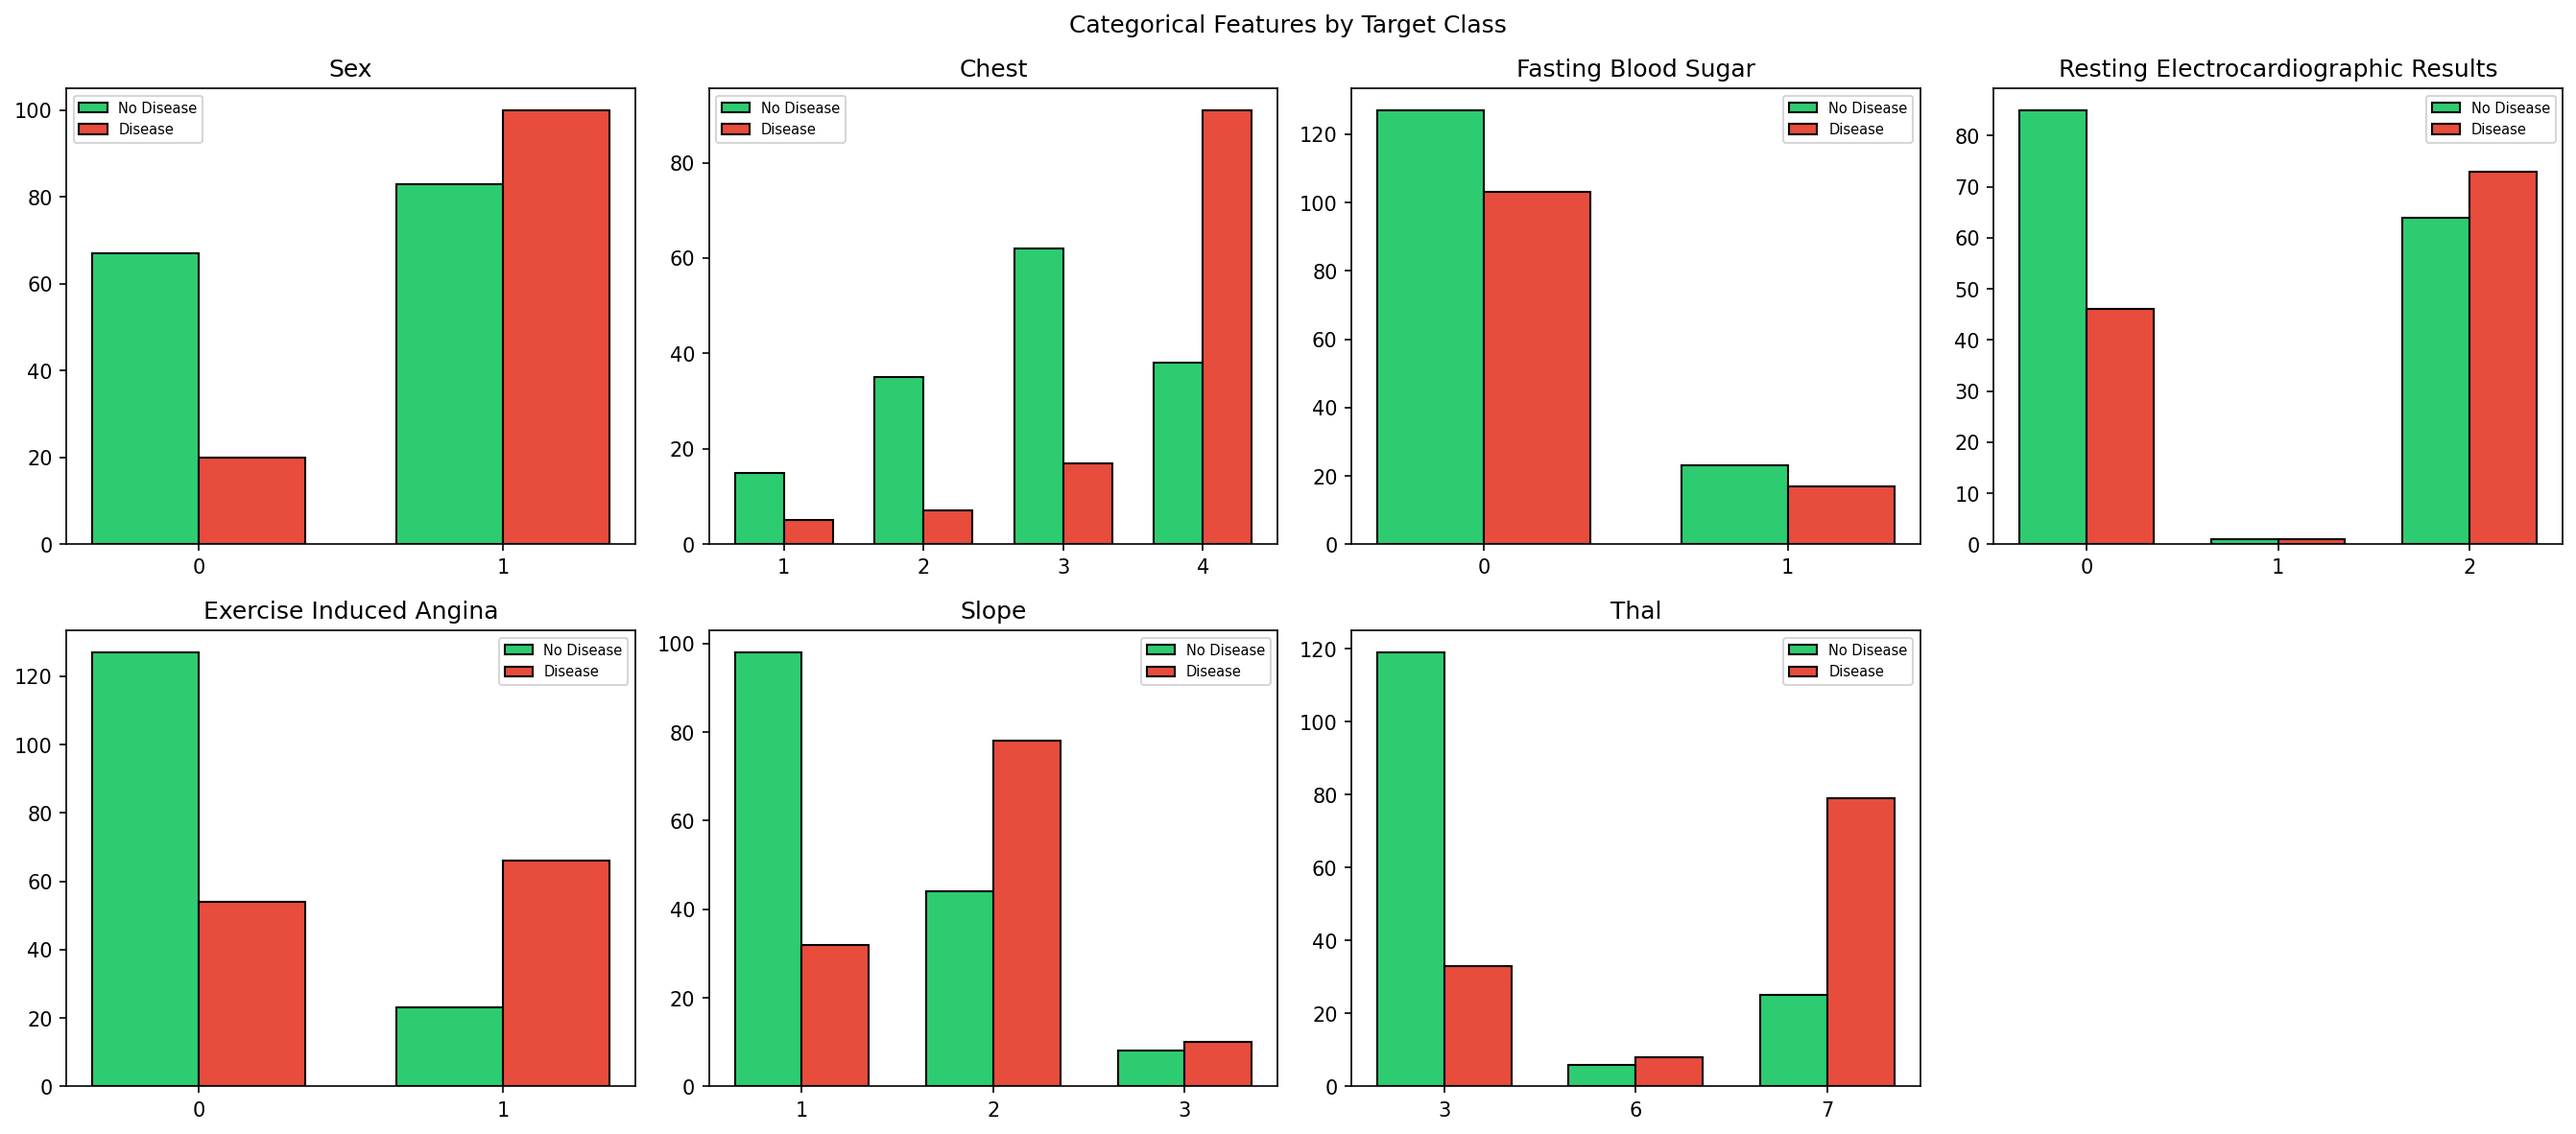
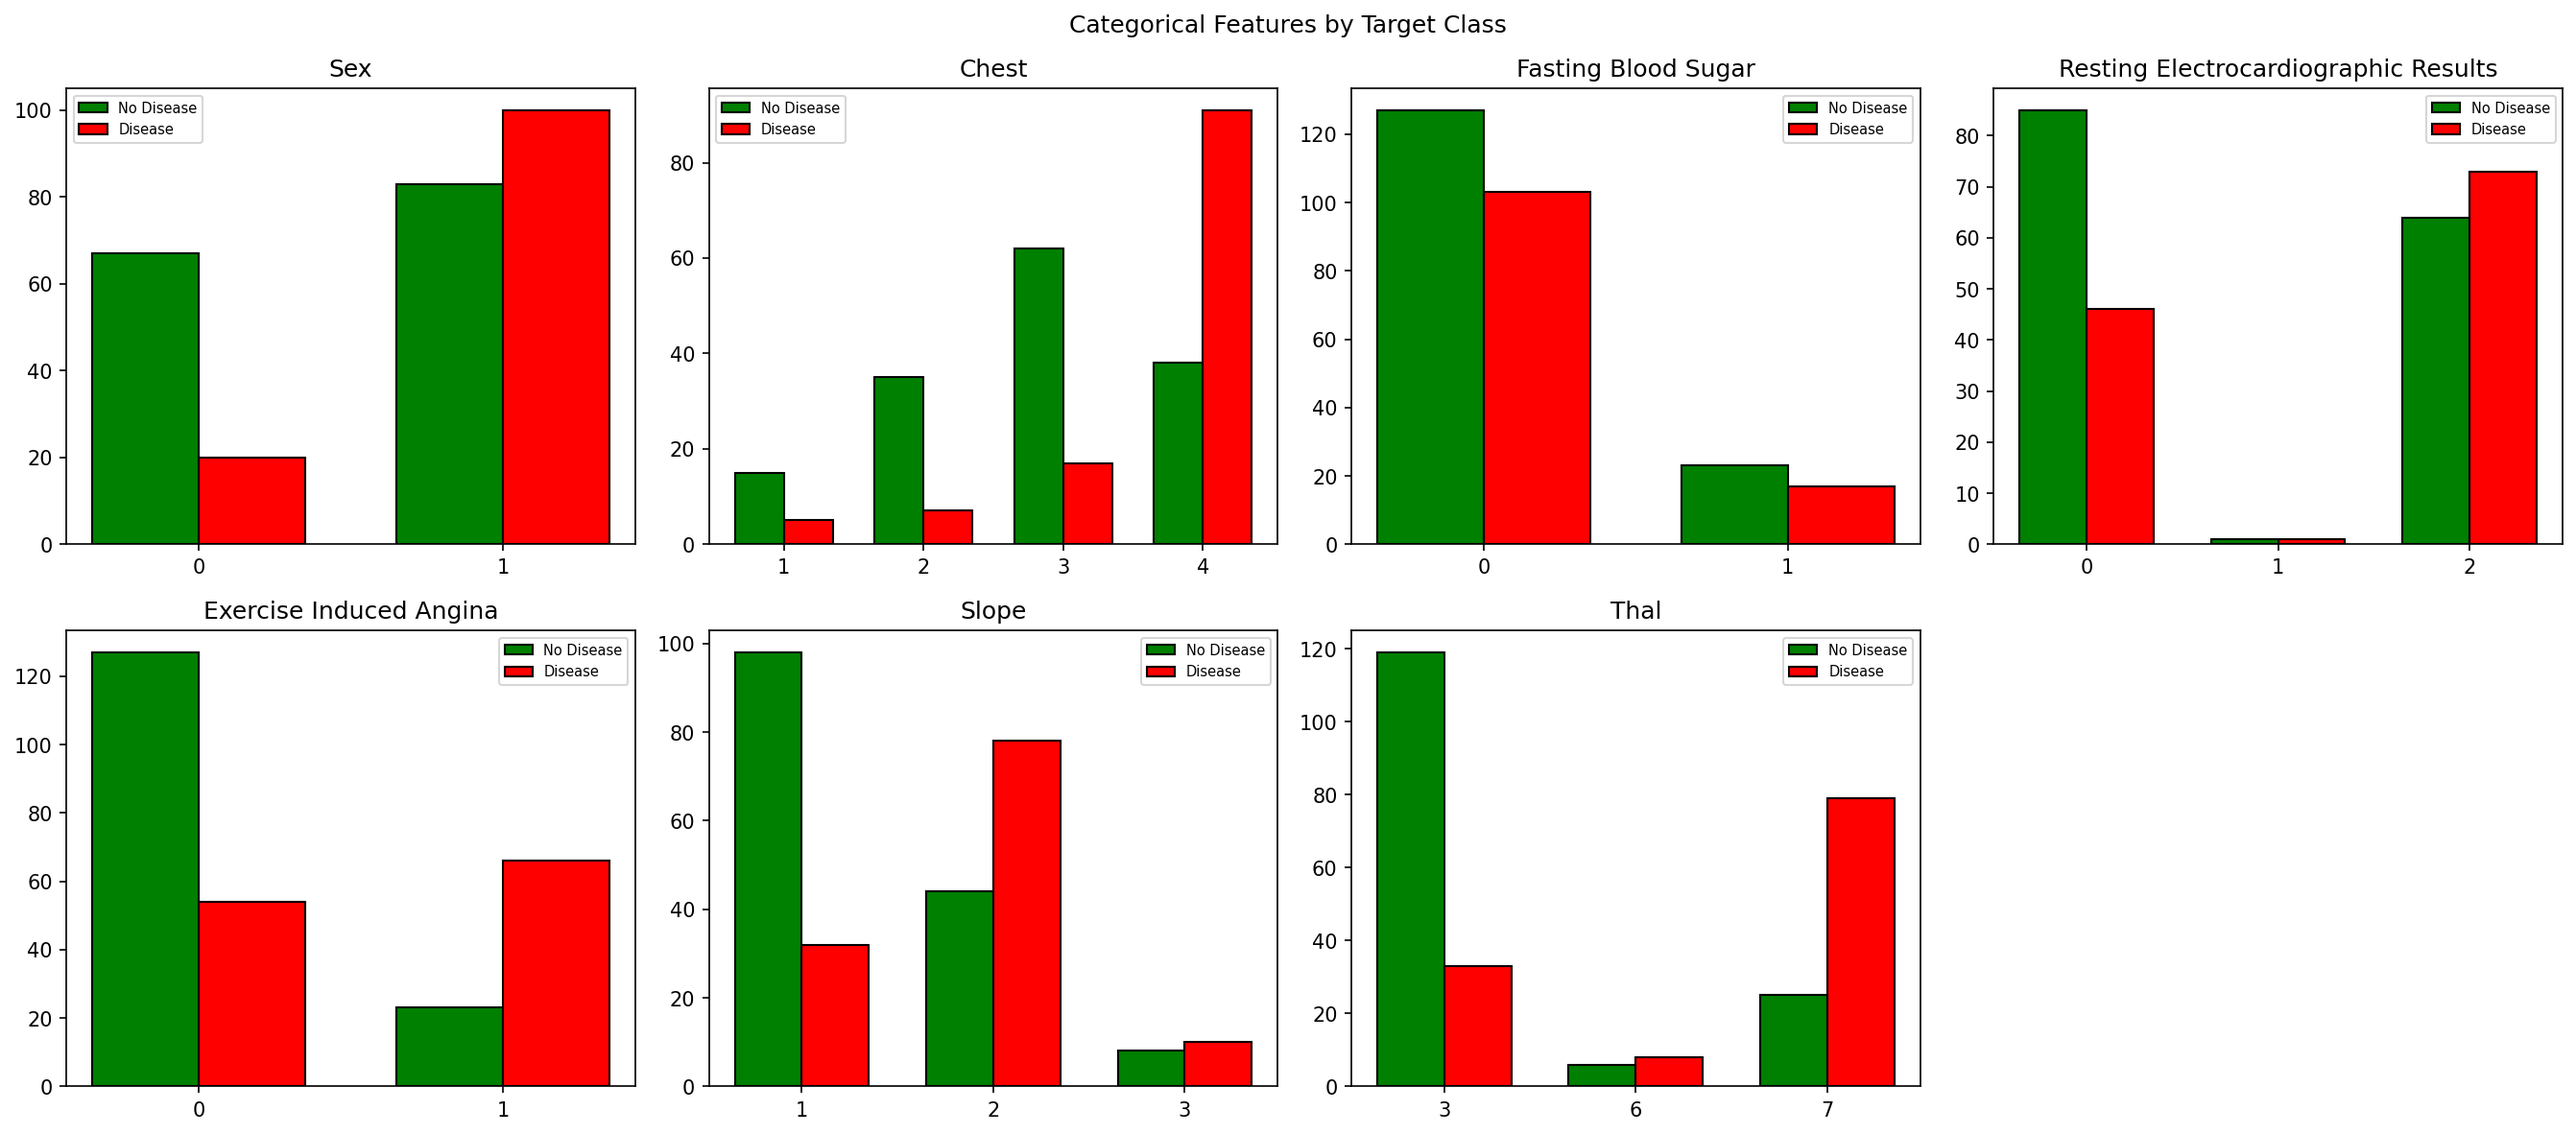
Complete

diff --git a/main.py b/main.py
@@ -130,25 +130,17 @@ categorical_cols = ["sex", "chest", "fasting_blood_sugar",
 
 # Feature Variables
 
-# Plot info
-feat_NoDisease_color = "green"
-feat_Disease_color = "red"
-feat_edge_color = "black"
-feat_alpha = 0.5
-feat_bins = 20
-feat_labels = ["No Disease", "Disease"]
-
 # Bar plots
 fig, axes = plt.subplots(2, 3, figsize=(15, 8))
 axes = axes.flatten()
 for i, col in enumerate(numerical_cols):
-    axes[i].hist(df[df["target"] == 0][col], bins=feat_bins, alpha=feat_alpha,
-                 color=feat_NoDisease_color, label=feat_labels[0], edgecolor=feat_edge_color)
-    axes[i].hist(df[df["target"] == 1][col], bins=feat_bins, alpha=feat_alpha,
-                 color=feat_Disease_color, label=feat_labels[1], edgecolor=feat_edge_color)
-    # KDE lines - NOTE: Used LLM for this. Good to know for future!
+    axes[i].hist(df[df["target"] == 0][col], bins=20, alpha=0.5,
+                 color="green", label="No Disease", edgecolor="black")
+    axes[i].hist(df[df["target"] == 1][col], bins=20, alpha=0.5,
+                 color="red", label="Disease", edgecolor="black")
+    # KDE lines
     ax2 = axes[i].twinx()
-    for target, color in zip([0, 1], [feat_NoDisease_color, feat_Disease_color]):
+    for target, color in zip([0, 1], ["green", "red"]):
         vals = df[df["target"] == target][col].dropna()
         kde = gaussian_kde(vals)
         x_range = np.linspace(vals.min(), vals.max(), 200)
@@ -176,9 +168,9 @@ for i, col in enumerate(categorical_cols):
     x = np.arange(len(no_disease.index))
     width = 0.35
     axes[i].bar(x - width/2, no_disease.values, width,
-                label="No Disease", color="#2ecc71", edgecolor="black")
+                label="No Disease", color="green", edgecolor="black")
     axes[i].bar(x + width/2, disease.reindex(no_disease.index).fillna(0).values,
-                width, label="Disease", color="#e74c3c", edgecolor="black")
+                width, label="Disease", color="red", edgecolor="black")
     axes[i].set_title(col.replace("_", " ").title())
     axes[i].set_xticks(x)
     axes[i].set_xticklabels(no_disease.index.astype(int))
@@ -341,7 +333,6 @@ results["SVM"] = {
 print("\n[4.2] SVM Model..... Complete ✓")
 
 # Random Forest
-
 rand_for_grid = {
     "n_estimators": [100, 300, 500],
     "max_features": ["sqrt", "log2", "None"],
@@ -372,7 +363,6 @@ results["Random Forest"] = {
 print("\n[4.3] Random Forest Model..... Complete ✓")
 
 # XGBoost
-
 xgb_grid = {
     "n_estimators": [100, 300, 500],
     "learning_rate": [0.01, 0.05, 0.1],
@@ -403,6 +393,7 @@ results["XGBoost"] = {
 
 print("\n[4.4] XGBoost Model..... Complete ✓")
 
+# Performance Metrics
 print("\n[4.5] Performance Metrics: ")
 
 results_df = pd.DataFrame(results).T
@@ -436,6 +427,7 @@ plt.savefig(f"{PLOTS_DIR}/05_model_comparison.png", dpi=150, bbox_inches="tight"
 plt.close()
 print("\n[4.6] Saving Model Comparison plot as 05_model_comparison.png..... Complete ✓")
 
+# ROC Curves
 fig, ax = plt.subplots(figsize=(8, 6))
 
 RocCurveDisplay.from_estimator(log_reg_model,  X_test_scaled, y_test, ax=ax, name="Logistic Regression")
@@ -451,6 +443,7 @@ plt.savefig(f"{PLOTS_DIR}/06_roc_curves.png", dpi=150, bbox_inches="tight")
 plt.close()
 print("\n[4.7] Saving ROC Curves plot as 06_roc_curves.png..... Complete ✓")
 
+# Confusion Matrices
 fig, axes = plt.subplots(1, 4, figsize=(18, 4))
 
 confus_df = [
@@ -482,6 +475,7 @@ print("=" * 60)
 print("5. Model Diagnostic")
 print("=" * 60)
 
+# Train vs Test AUC Gaps
 print("\n[5.1] Train vs Test AUC Gap: ")
 
 model_registry = {
@@ -510,7 +504,7 @@ print("-" * 60)
 diag_df = pd.DataFrame(diagnostics).T
 print(diag_df.to_string())
 
-# Threshold adjustment to assess trade-off
+# Threshold adjustments
 print("\n[5.2] Adjusted Threshold Check: ")
 print("-" * 60)
 
@@ -567,7 +561,7 @@ disp = ConfusionMatrixDisplay(confusion_matrix=cm,
 disp.plot(ax=axes[1], colorbar=False, cmap="Blues")
 axes[1].set_title("Confusion Matrix: Random Forest @ 0.44 Threshold")
 
-# Performance Metrics
+# Performance Metrics for Random Forest at 0.44 Threshold
 recall   = recall_score(y_test, rand_for_pred_44)
 accuracy = accuracy_score(y_test, rand_for_pred_44)
 f1       = f1_score(y_test, rand_for_pred_44)
